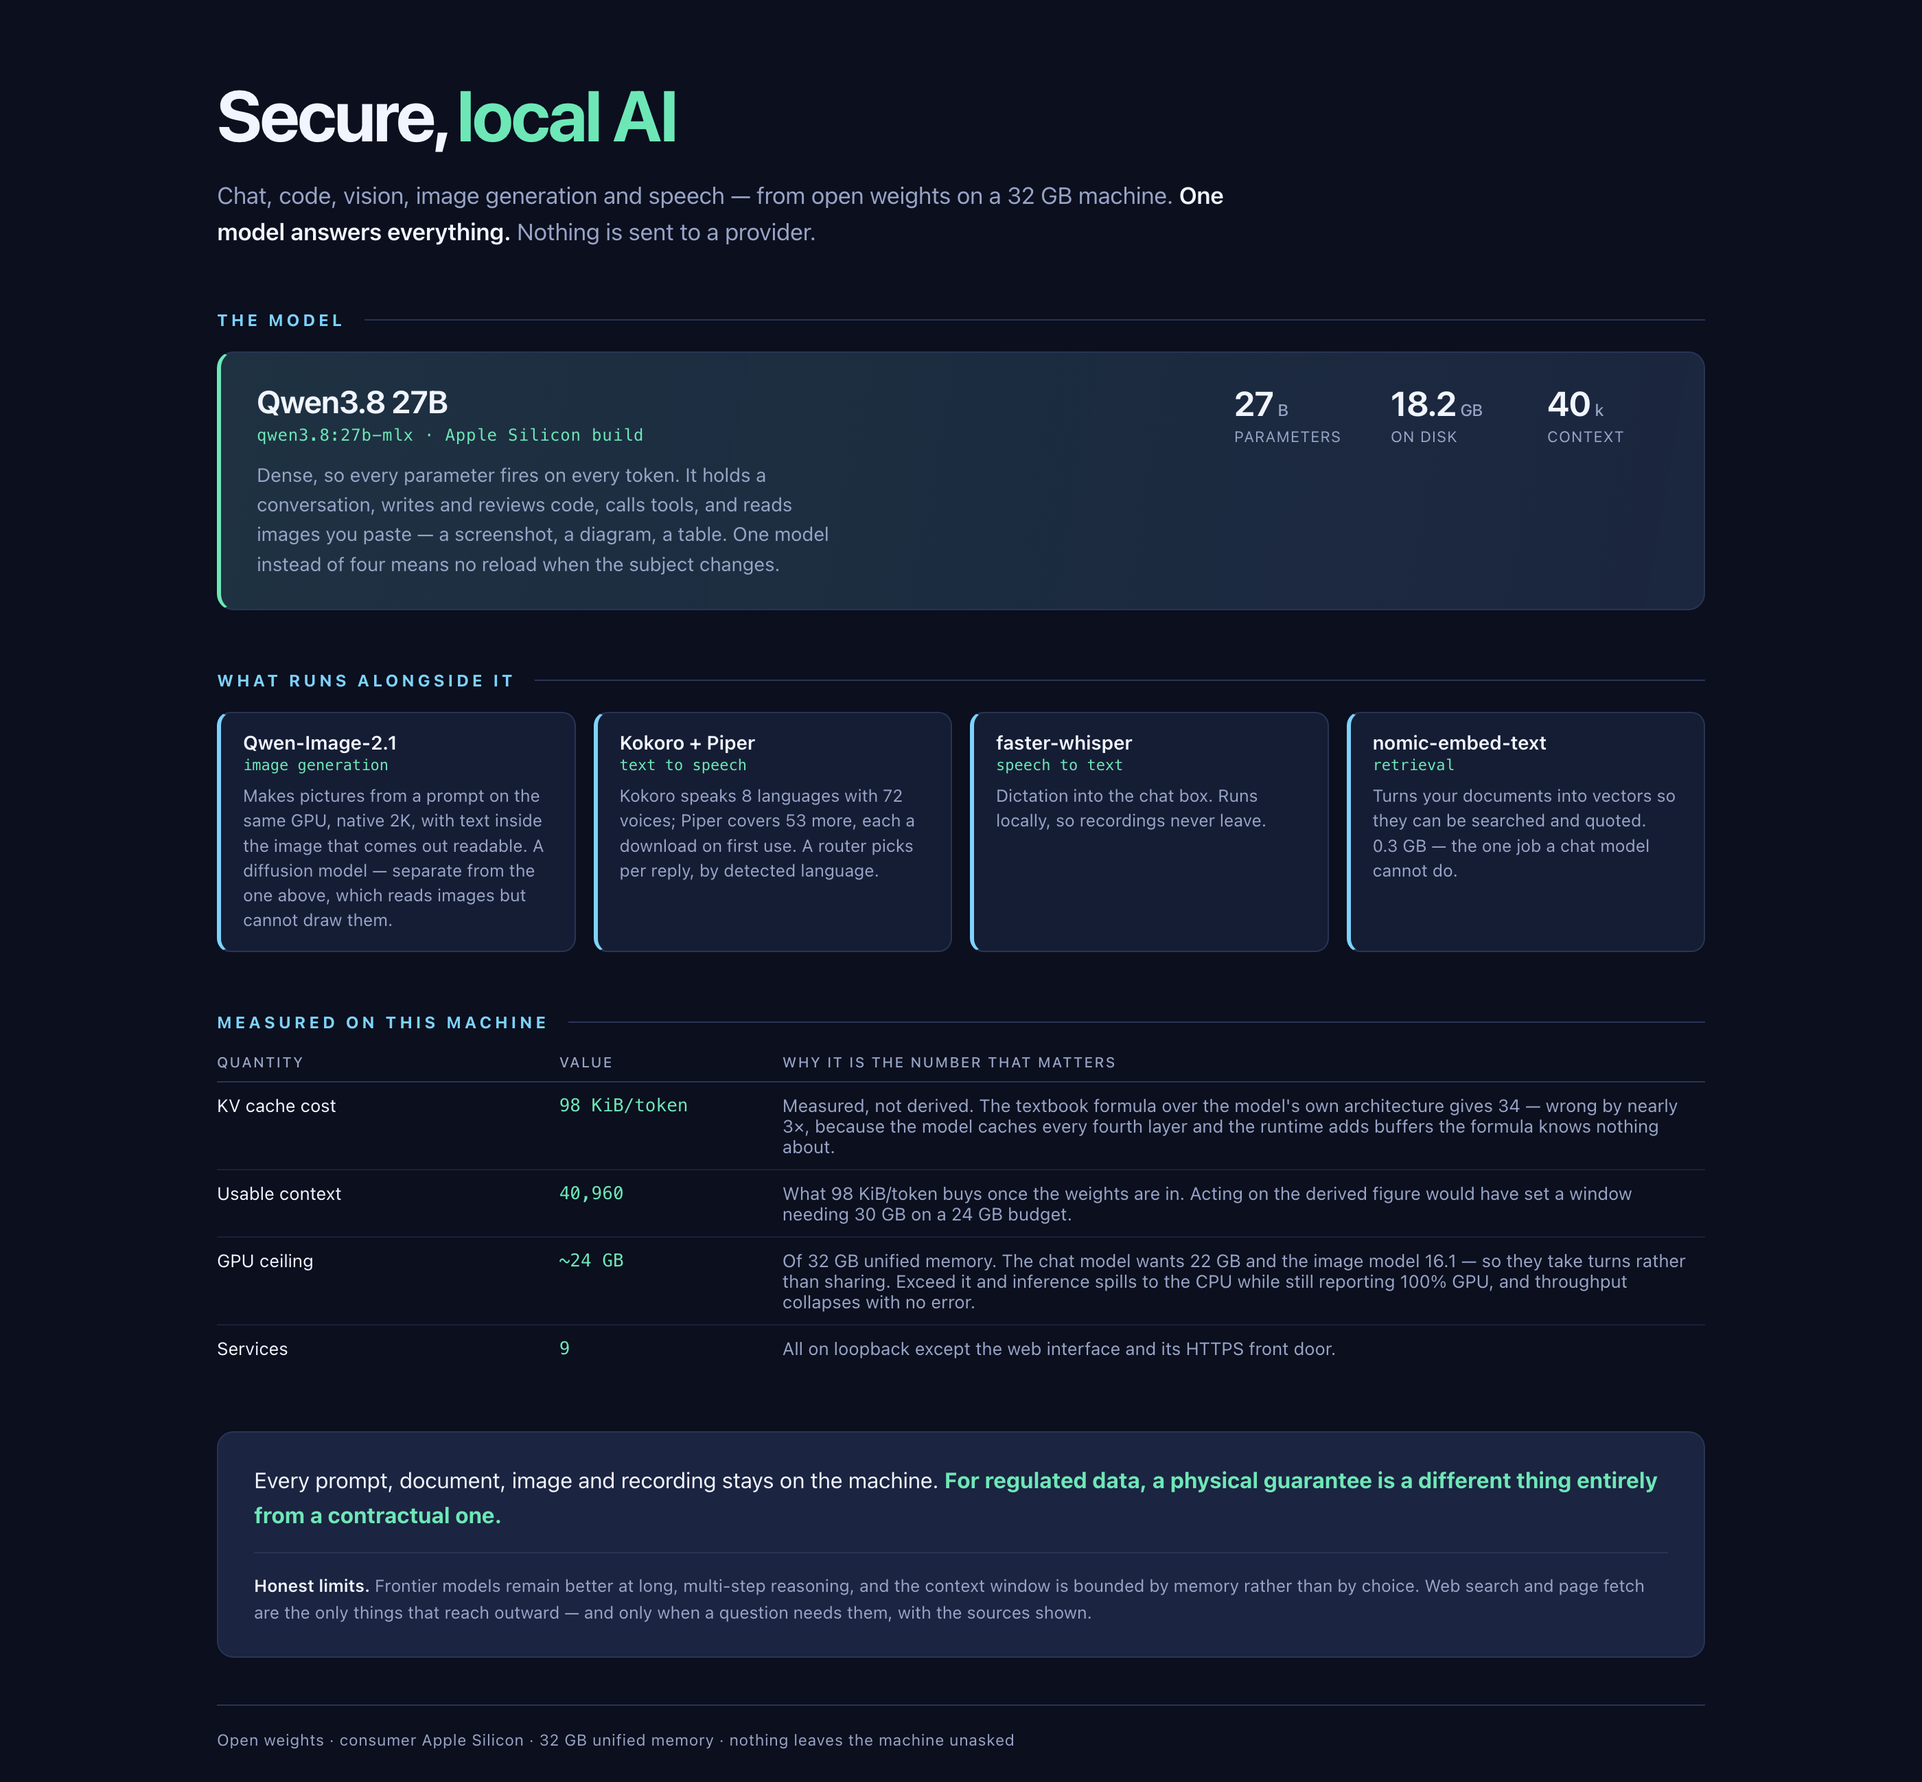
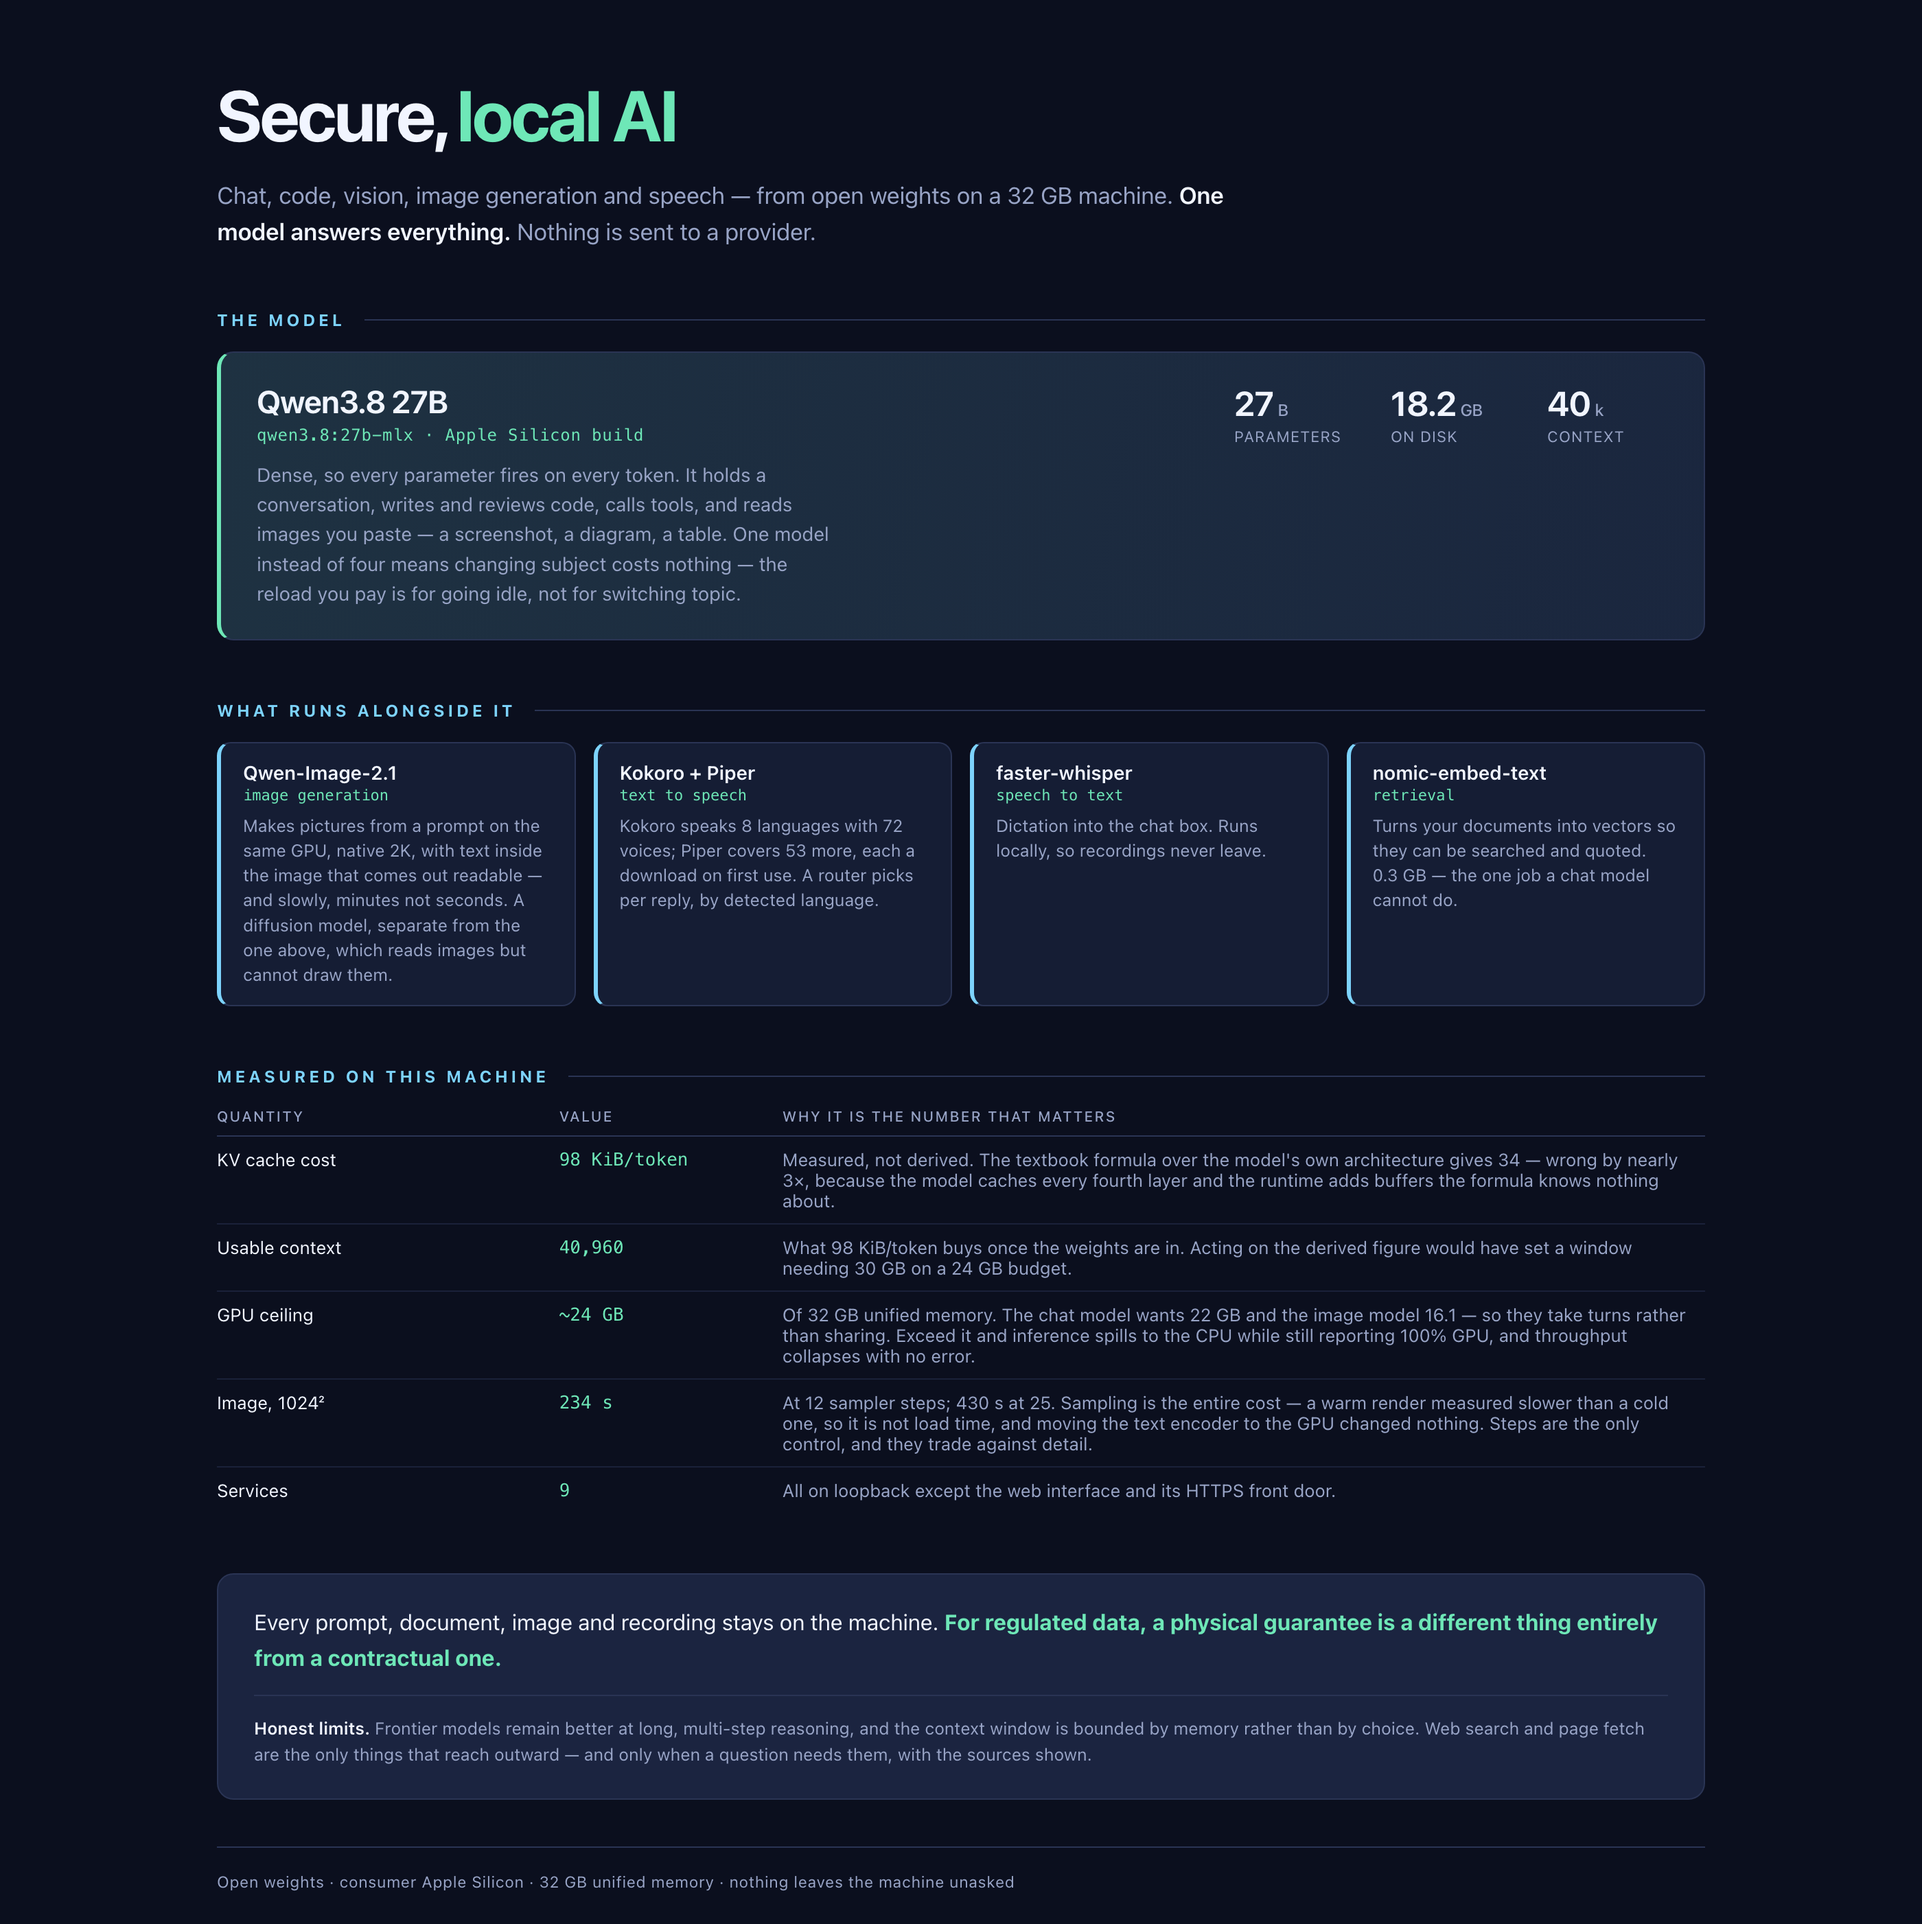
Put the measured image numbers in the diagrams, and drop a claim that expired
Both diagrams said changing subject costs "no reload". That was true while
the model was pinned and stopped being true the moment the timeout went in,
which is the change that lets the image model have the memory at all. It
now says what actually happens: switching topic is free, going idle is what
costs a reload.

The diagrams also gain the numbers that were measured after they were last
drawn -- 234s at 12 steps, 430s at 25, sampling being the whole cost -- and
the note that a render survives a caller that times out, since ComfyUI owns
the job and -b/-r exist for exactly that.

Two stragglers from the goose removal: GUIDE still credited a .goosehints
file this repo no longer ships, and cmd_unload's comment still explained
itself in terms of a pinned model rather than the timeout that is now the
default.

diff --git a/docs/infographic.html b/docs/infographic.html
@@ -84,7 +84,8 @@
       <div class="tag">qwen3.8:27b-mlx · Apple Silicon build</div>
       <div class="txt">Dense, so every parameter fires on every token. It holds a conversation,
         writes and reviews code, calls tools, and reads images you paste — a screenshot, a
-        diagram, a table. One model instead of four means no reload when the subject changes.</div>
+        diagram, a table. One model instead of four means changing subject costs nothing — the
+        reload you pay is for going idle, not for switching topic.</div>
     </div>
     <div class="spec">
       <div><div class="v">27<small>B</small></div><div class="k">parameters</div></div>
@@ -97,8 +98,8 @@
   <div class="row">
     <div class="c b"><div class="cn">Qwen-Image-2.1</div><div class="cp">image generation</div>
       <div class="cd">Makes pictures from a prompt on the same GPU, native 2K, with text inside
-        the image that comes out readable. A diffusion model — separate from the one above,
-        which reads images but cannot draw them.</div></div>
+        the image that comes out readable — and slowly, minutes not seconds. A diffusion model,
+        separate from the one above, which reads images but cannot draw them.</div></div>
     <div class="c b"><div class="cn">Kokoro + Piper</div><div class="cp">text to speech</div>
       <div class="cd">Kokoro speaks 8 languages with 72 voices; Piper covers 53 more, each a
         download on first use. A router picks per reply, by detected language.</div></div>
@@ -123,6 +124,11 @@
         <td class="d">Of 32 GB unified memory. The chat model wants 22 GB and the image model
           16.1 — so they take turns rather than sharing. Exceed it and inference spills to the
           CPU while still reporting 100% GPU, and throughput collapses with no error.</td></tr>
+    <tr><td>Image, 1024²</td><td class="m">234 s</td>
+        <td class="d">At 12 sampler steps; 430 s at 25. Sampling is the entire cost — a warm
+          render measured slower than a cold one, so it is not load time, and moving the text
+          encoder to the GPU changed nothing. Steps are the only control, and they trade
+          against detail.</td></tr>
     <tr><td>Services</td><td class="m">9</td>
         <td class="d">All on loopback except the web interface and its HTTPS front door.</td></tr>
   </table>

diff --git a/docs/architecture.html b/docs/architecture.html
@@ -103,7 +103,7 @@
     <div class="card engine">
       <div class="name">ComfyUI + Qwen-Image-2.1</div>
       <div class="port">127.0.0.1:8188</div>
-      <div class="desc">Image generation on the GPU. 16.1&nbsp;GB in three parts — diffusion model, text encoder, VAE — native 2K, and legible text inside the picture. A diffusion model: the chat model reads images, this one draws them. Research licence, non-commercial.</div>
+      <div class="desc">Image generation on the GPU. 16.1&nbsp;GB in three parts — diffusion model, text encoder, VAE — native 2K, and legible text inside the picture. Slow: ~234&nbsp;s at 12 steps, ~430&nbsp;s at 25, and sampling is the whole cost. A diffusion model: the chat model reads images, this one draws them. Research licence, non-commercial.</div>
     </div>
   </div>
 </div>
@@ -129,7 +129,9 @@
   <div class="note" style="border-left-color:var(--sky)">
     <b>One model, not a menu.</b> The picker shows a single entry. Chat, code, vision and tool
     use are the same weights, so changing subject costs nothing — there is no second model to
-    swap in, and no reload. Background work that used to need a small second model, writing
+    swap in, and no reload between subjects — the only reload is after it goes idle, which it
+    must, because the image model needs the same memory. Background work that used to need
+    a small second model, writing
     chat titles and tags, now runs on this one too: that removes 1.9&nbsp;GB from memory rather
     than adding to it, because nothing has to sit resident beside it. The embedding model is the
     one genuine exception — turning text into vectors is not something a chat model does — so it
@@ -191,7 +193,7 @@
     <div class="card">
       <div class="name">generate-image</div>
       <div class="port">CLI · → ComfyUI</div>
-      <div class="desc">A raster image from a prompt, for the shell and for any agent with one. The chat model cannot draw; this reaches the one that can.</div>
+      <div class="desc">A raster image from a prompt, for the shell and for any agent with one. The chat model cannot draw; this reaches the one that can. ComfyUI owns the job, so a render survives a caller that times out: <span class="mono">-b</span> queues and exits, <span class="mono">-r</span> collects it later.</div>
     </div>
   </div>
 </div>

diff --git a/GUIDE.md b/GUIDE.md
@@ -347,10 +347,10 @@ rounds and feel like nothing changed.
 
 **Keep credentials out of prompts entirely.** Set up SSH keys, then phrase the task with
 no secrets in it. It avoids the refusal, and it keeps passwords out of your shell history
-and the model's context. The `.goosehints` shipped here tells the agent to try before
+and the model's context. The `AGENTS.md` shipped here tells the agent to try before
 claiming it cannot, to never use `sshpass -p`, and to re-evaluate rather than defend an
-earlier refusal — but a hints file is weaker than the model's training, so the habit
-matters more than the instruction.
+earlier refusal — but an instructions file is weaker than the model's training, so the
+habit matters more than the instruction.
 
 **Verify anything it reports from a device.** Summaries mix what the config says with
 what the model inferred from comments. The facts are usually right; the interpretation
